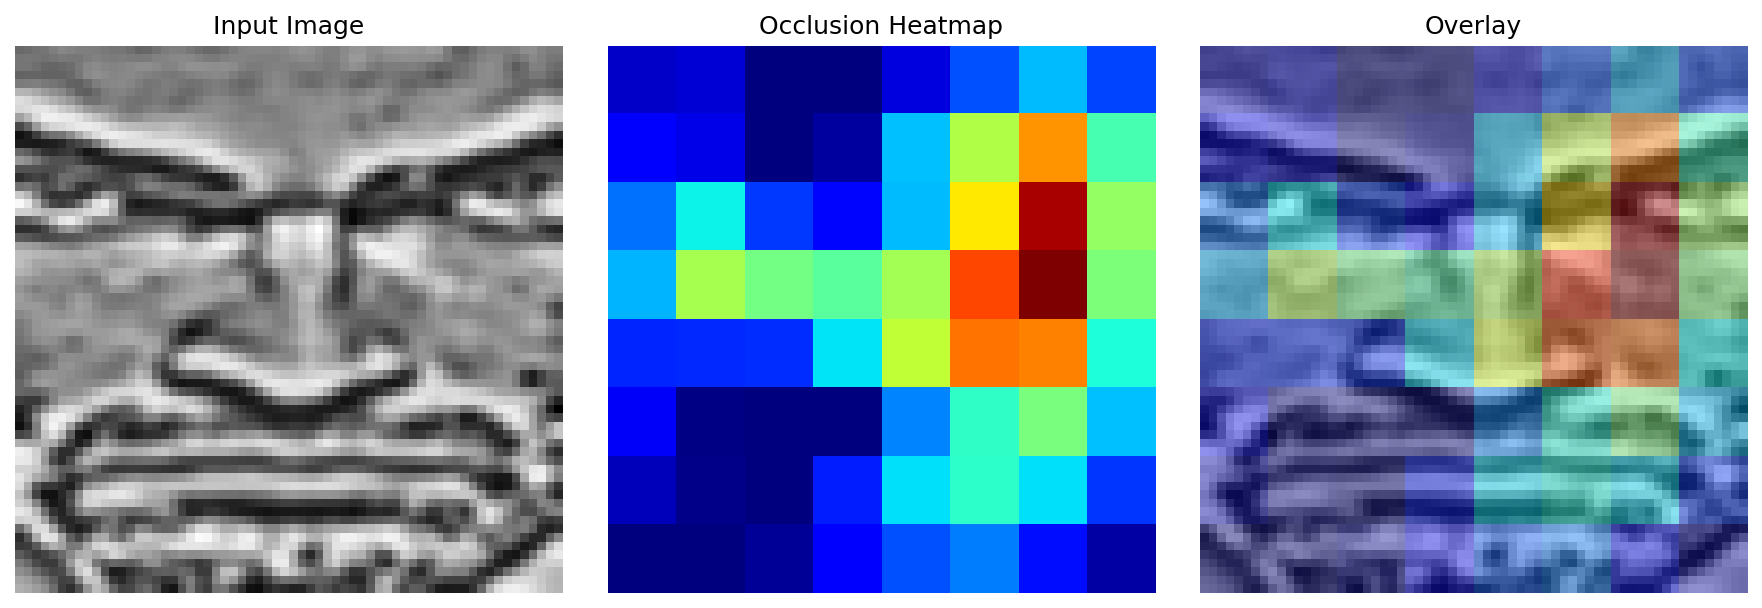
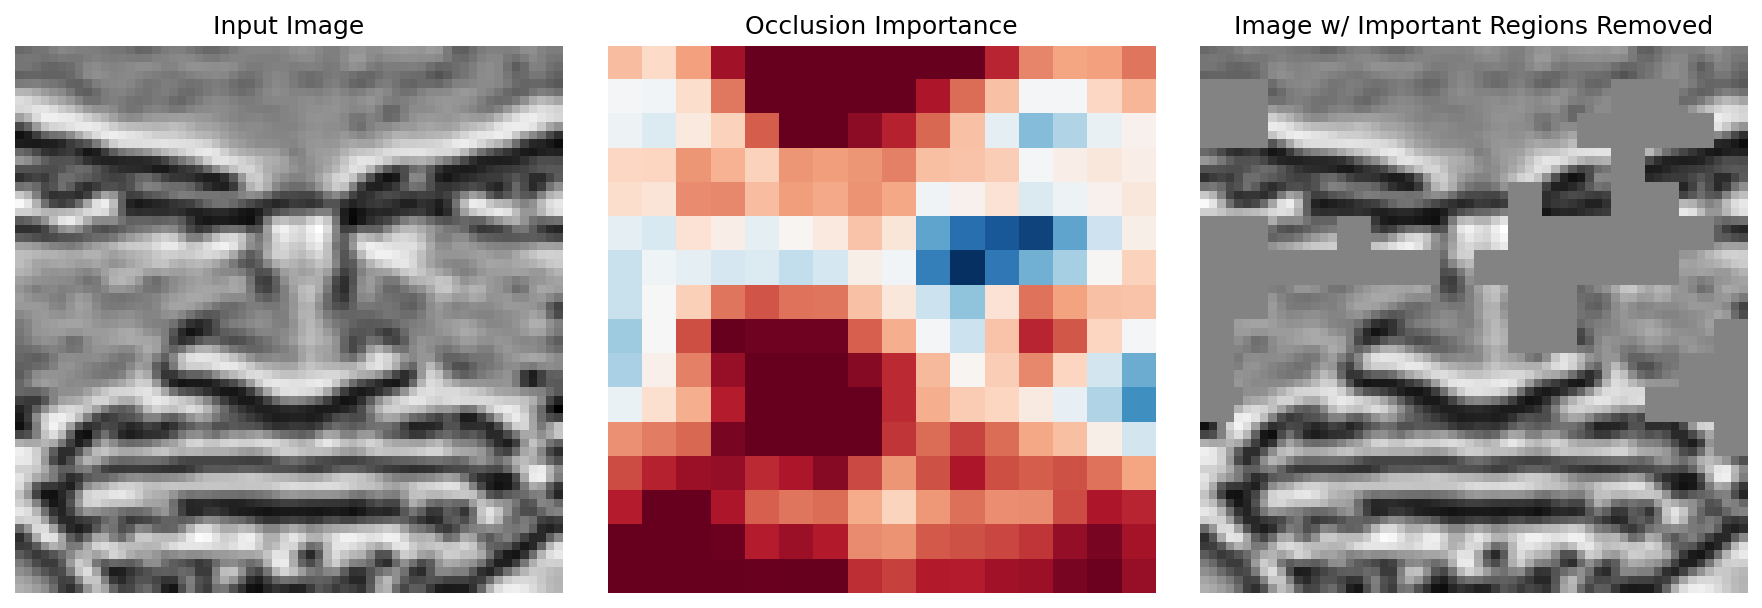
Tested occlusion

diff --git a/main/scripts/explain_occlusion.py b/main/scripts/explain_occlusion.py
@@ -8,7 +8,7 @@ from torchvision.datasets import ImageFolder
 from torchvision import transforms
 
 from fer.models.cnn_resnet18 import ResNet18FER
-from fer.xai.occlusion import occlusion_saliency
+from fer.xai.occlusion import OcclusionSaliency
 
 DATASET_ROOT = "../src/fer/dataset/standardized/images_mtcnn_cropped_norm/test"
 WEIGHTS_PATH = "../weights/resnet18fer/model_state_dict.pt"
@@ -44,26 +44,31 @@ model.load_state_dict(torch.load(WEIGHTS_PATH, map_location=device))
 model.to(device)
 model.eval()
 
-heatmap = occlusion_saliency(
+occlusion = OcclusionSaliency(
     model=model,
+    window_size=(8, 8),     
+    stride=(4, 4),
+    occlusion_value=0.0,    
+    batch_size=32,
+)
+
+heatmap = occlusion(
     input_tensor=x,
-    target_class=target_idx,
+    target_class=target_idx
 )
 
 heatmap_resized = cv2.resize(heatmap, (64, 64))
 
+importance = heatmap_resized
+
+threshold = np.percentile(importance, 80)
+mask = importance >= threshold
+
 img = x[0].permute(1, 2, 0).detach().cpu().numpy()
 img = (img - img.min()) / (img.max() - img.min() + 1e-8)
 
-heatmap_color = cv2.applyColorMap(
-    np.uint8(255 * heatmap_resized),
-    cv2.COLORMAP_JET
-)
-heatmap_color = cv2.cvtColor(heatmap_color, cv2.COLOR_BGR2RGB)
-heatmap_color = heatmap_color / 255.0
-
-overlay = 0.6 * img + 0.4 * heatmap_color
-overlay = np.clip(overlay, 0, 1)
+masked_img = img.copy()
+masked_img[mask] = img.mean()
 
 fig, axes = plt.subplots(1, 3, figsize=(12, 4))
 
@@ -71,12 +76,12 @@ axes[0].imshow(img)
 axes[0].set_title("Input Image")
 axes[0].axis("off")
 
-axes[1].imshow(heatmap_resized, cmap="jet")
-axes[1].set_title("Occlusion Heatmap")
+axes[1].imshow(importance, cmap="RdBu")
+axes[1].set_title("Occlusion Importance")
 axes[1].axis("off")
 
-axes[2].imshow(overlay)
-axes[2].set_title("Overlay")
+axes[2].imshow(masked_img)
+axes[2].set_title("Image w/ Important Regions Removed")
 axes[2].axis("off")
 
 plt.tight_layout()

diff --git a/main/src/fer/xai/occlusion.py b/main/src/fer/xai/occlusion.py
@@ -4,7 +4,6 @@ import numpy as np
 
 
 class OcclusionSaliency:
-
     def __init__(
         self,
         model: torch.nn.Module,
